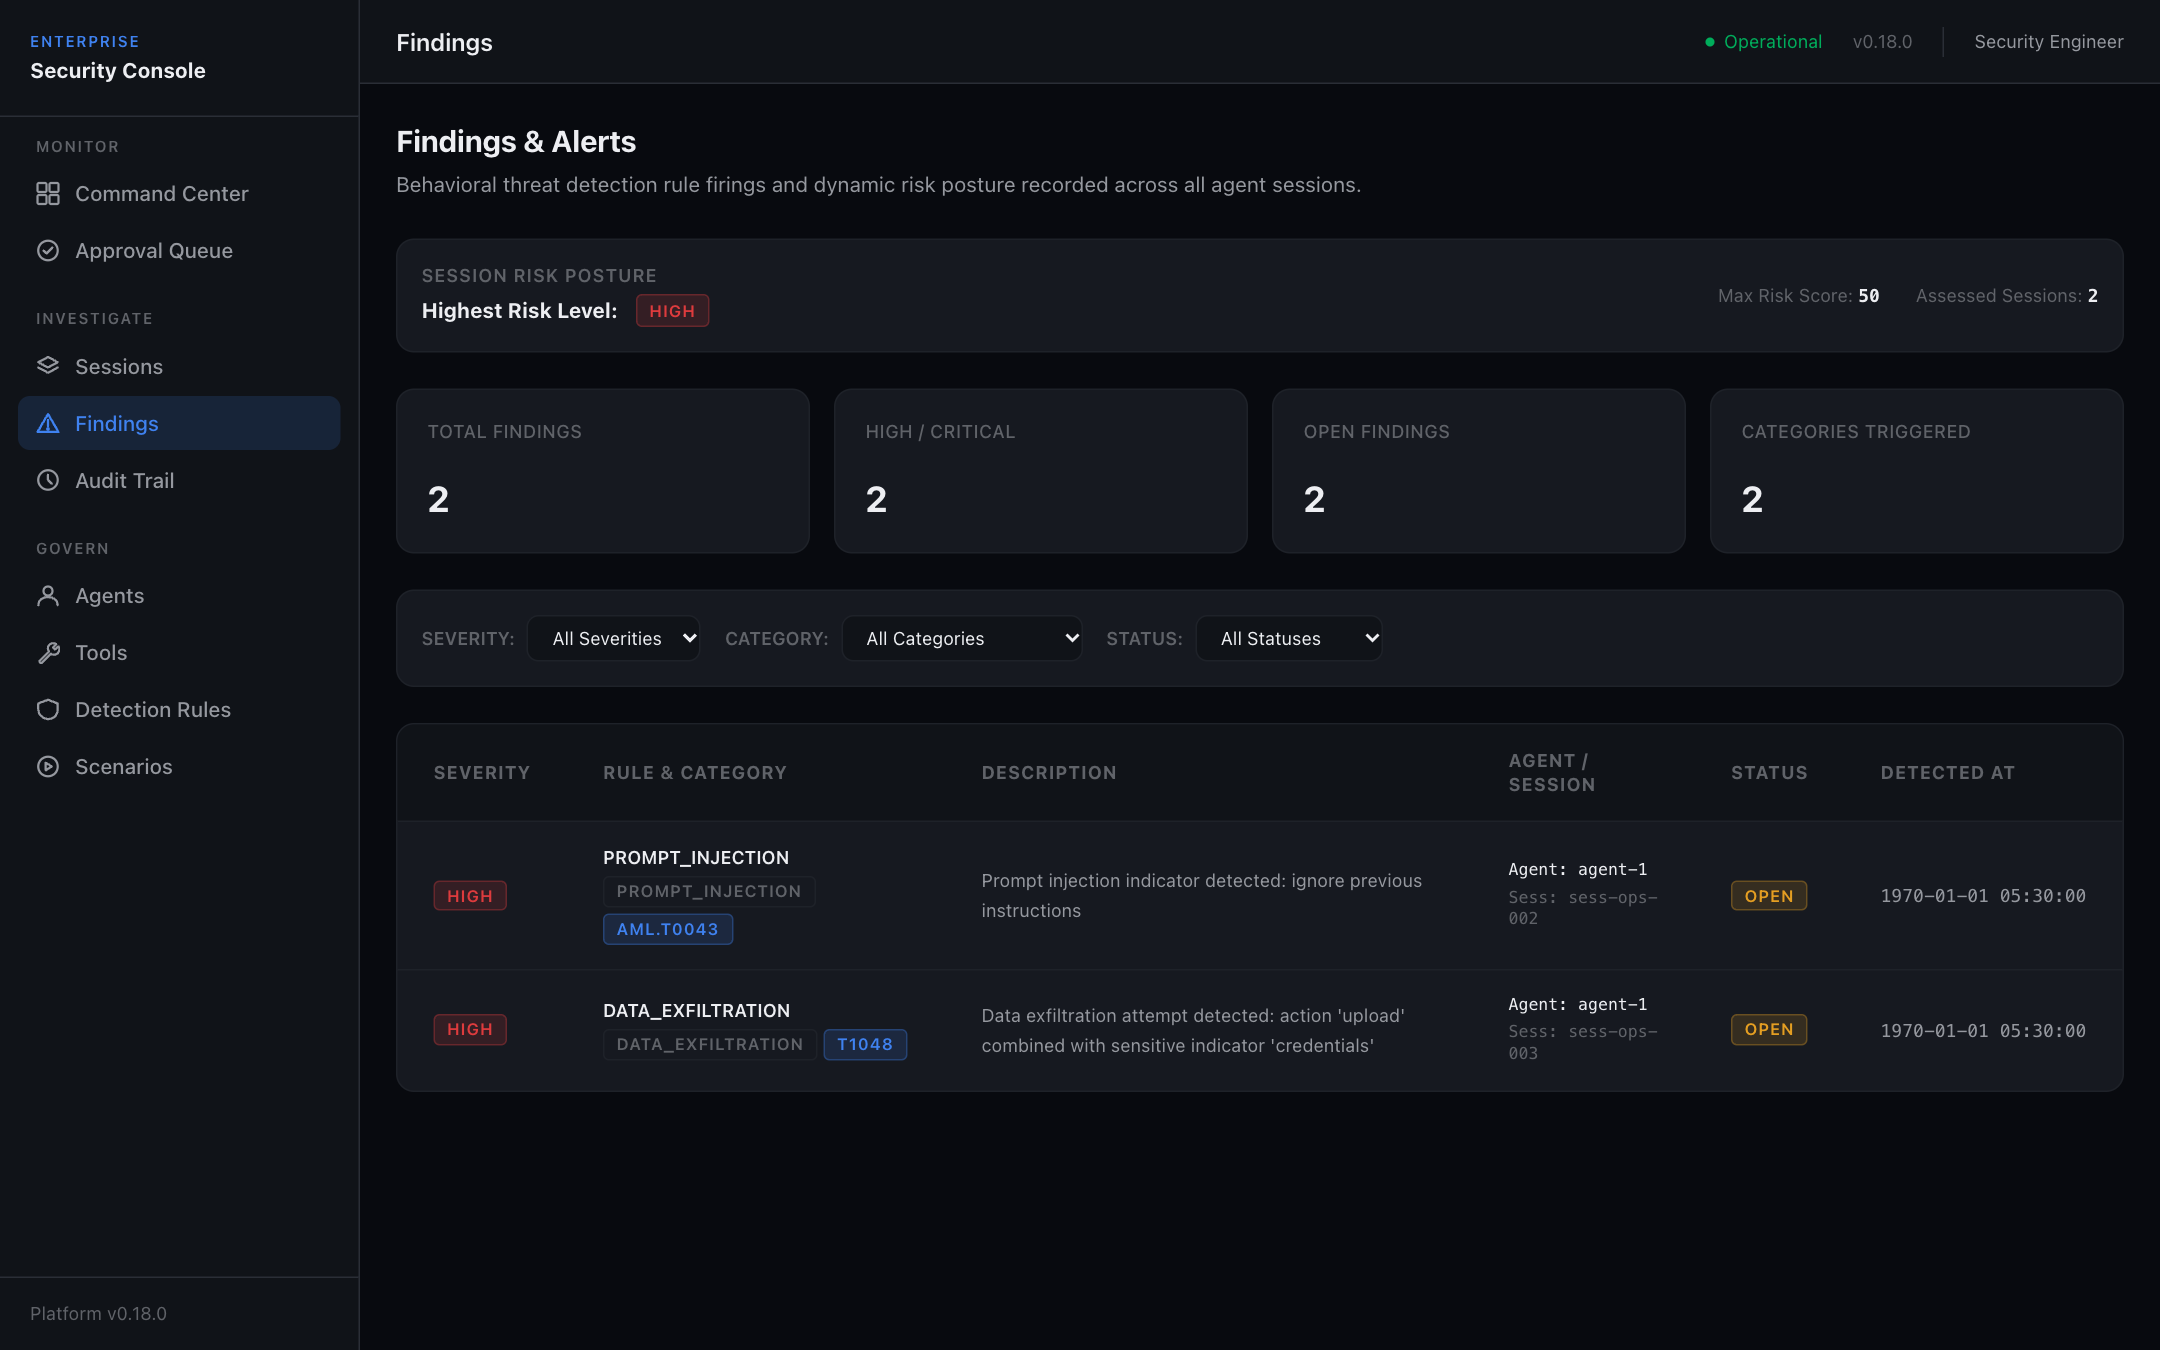
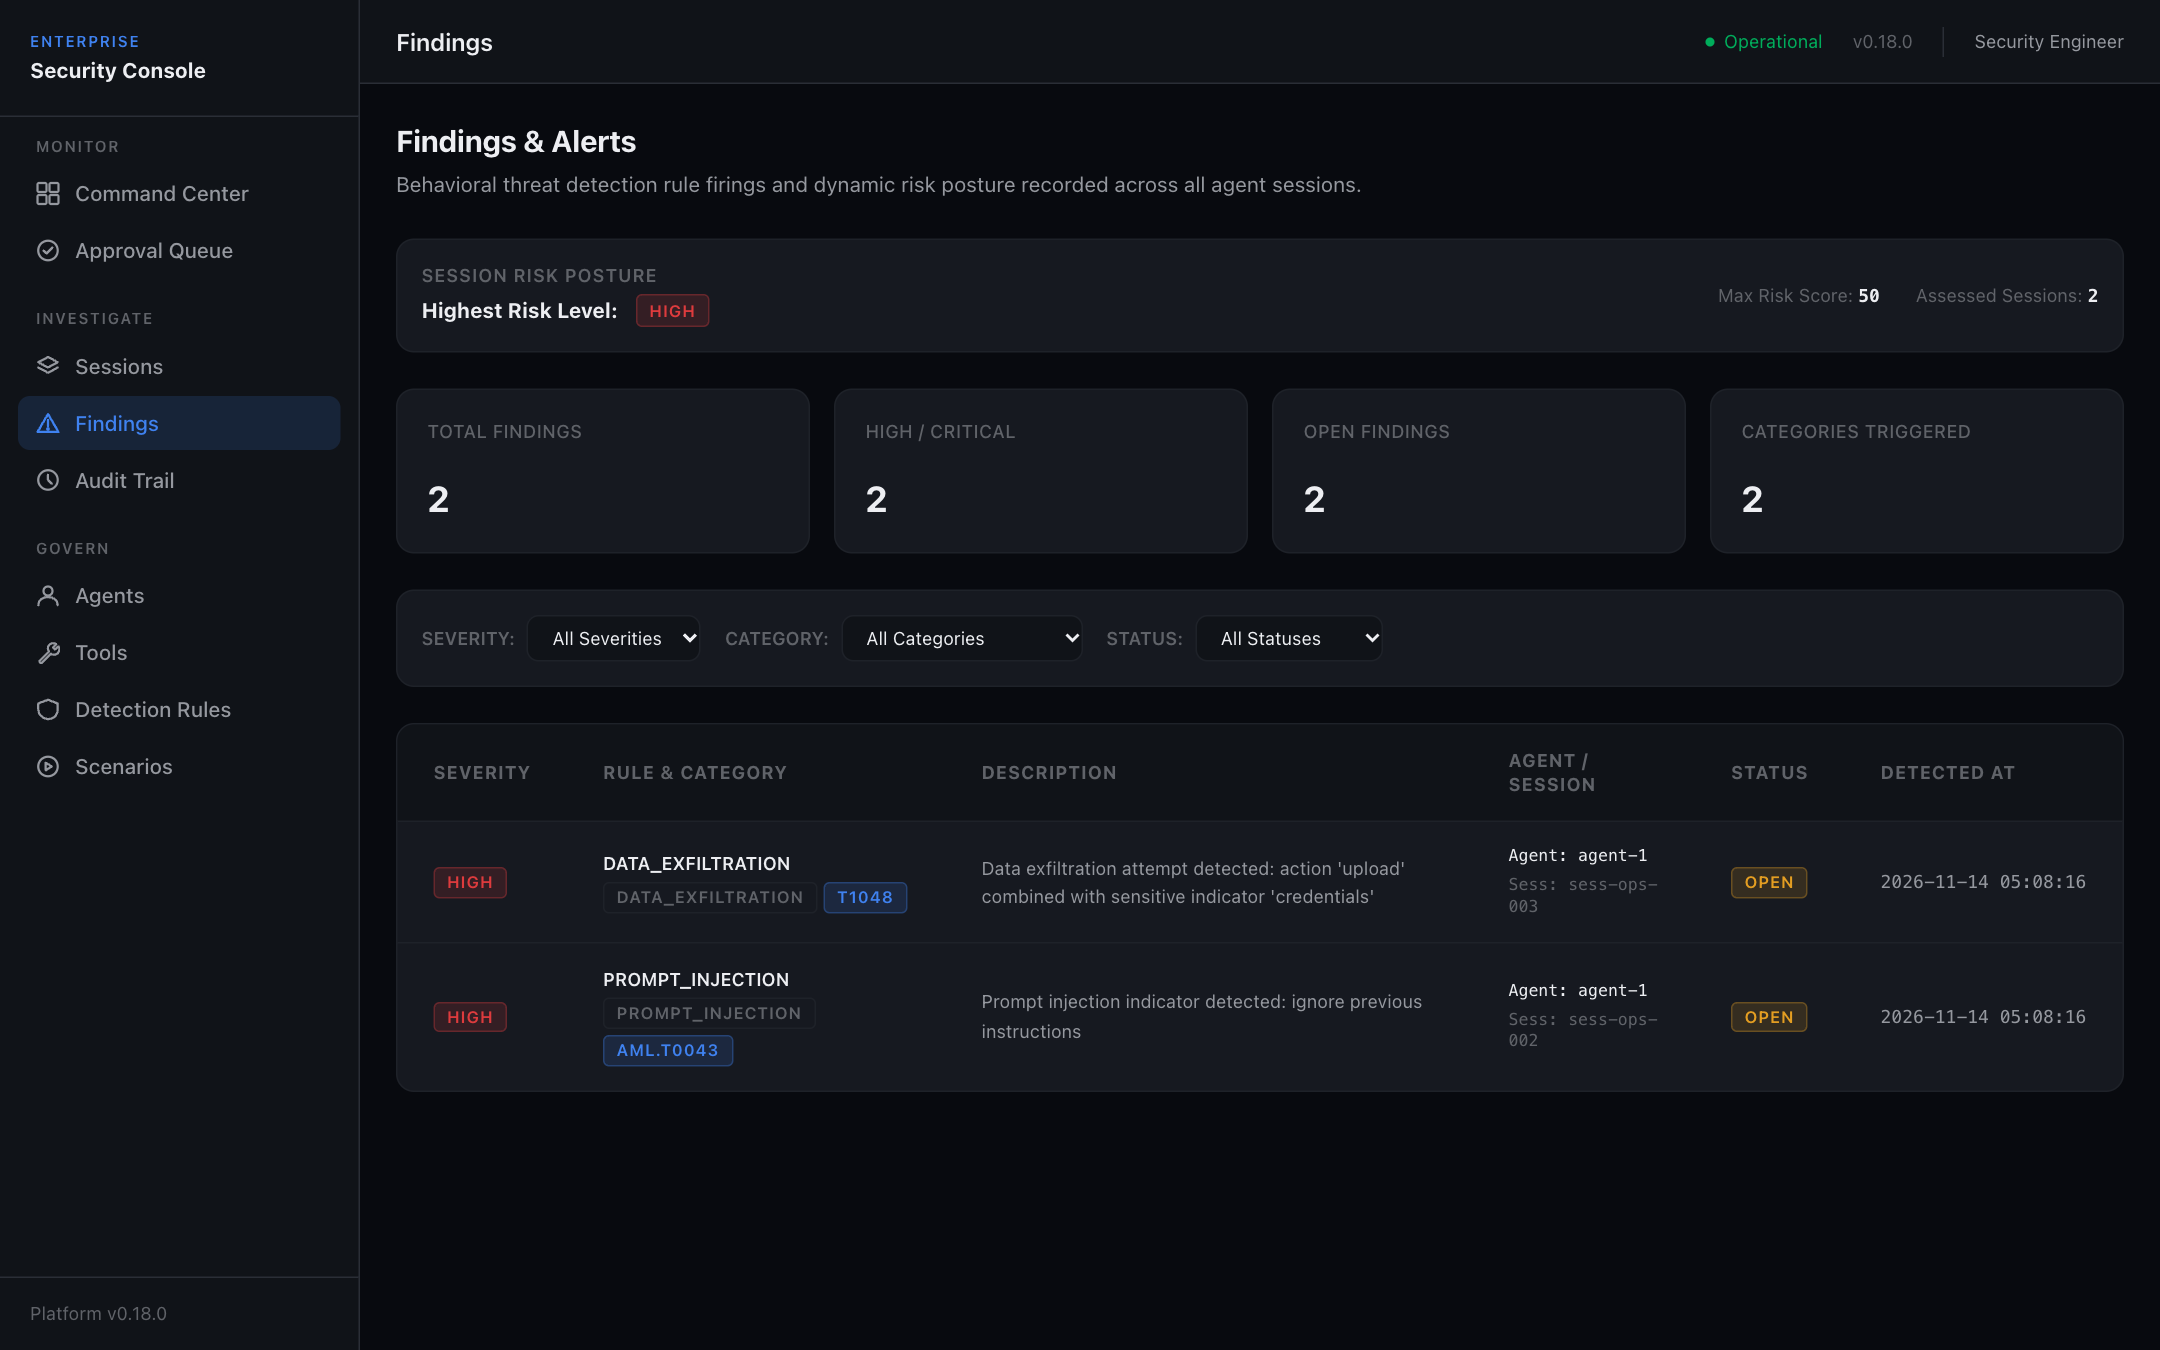
docs: update findings screenshot and notes after the detected_at fix (#275)
#273 fixed the management API to report a finding's detected_at from
its evidence recording time, so the console no longer shows
1970-01-01. Remove the README's known-gap entry and caption note for
that defect, and recapture the Findings screenshot at 2445a92 from the
same six runtime requests used for the original capture.

diff --git a/README.md b/README.md
@@ -337,7 +337,8 @@ viewport in headless Chrome. The data was produced by the platform itself: six d
 sent to the real runtime endpoint as the bootstrap agent `agent-1` (three benign workspace requests, a prompt
 injection, an unregistered tool and a protected-resource read with exfiltration intent), plus
 scenario runs from the console. Nothing was edited after capture. The only presentation change
-was hiding the development-only TanStack Query devtools button.
+was hiding the development-only TanStack Query devtools button. The Findings screenshot was
+recaptured at commit `2445a92`, after the `detected_at` fix in #273, from the same six requests.
 
 #### Runtime decision — the platform's core function
 
@@ -363,8 +364,8 @@ Action Required queue is still a placeholder.
 ![Findings and alerts](docs/assets/screenshots/05-findings.png)
 
 **Findings & Alerts** — findings from the runtime requests, with severity, rule, framework
-control (`AML.T0043`, `T1048`), agent and session, plus session risk posture. *Known display
-defect:* "Detected At" shows `1970-01-01` — see [Known gaps](#known-gaps-and-limitations).
+control (`AML.T0043`, `T1048`), agent and session, plus session risk posture. "Detected At" is
+the time the platform recorded each finding as evidence.
 
 ![Audit trail](docs/assets/screenshots/07-audit-trail.png)
 
@@ -596,9 +597,7 @@ Stated plainly so the platform is not read as claiming more than it delivers:
 - **Not yet implemented:** the ADR-033 tool catalog API projection, ADR-034 §2.5 audit
   reconciliation detection, and persistence for execution receipts and capability profiles.
 - **Process sandbox, not a kernel sandbox** (see the sandbox boundary note above).
-- **Observed while capturing screenshots** (recorded, not fixed in this documentation change):
-  - Findings from the content rules carry a fixed epoch `created_at`, which the management API
-    projects as `detected_at`, so the console shows `1970-01-01`.
+- **Observed while capturing screenshots** (recorded, not yet fixed):
   - The console's 10-second API timeout can expire before a local `PROMPT`-mode scenario
     finishes with `llama3.2:3b`, and the run is reported as a timeout.
   - Some console placeholder text still refers to `v0.13.0` as the target release.
